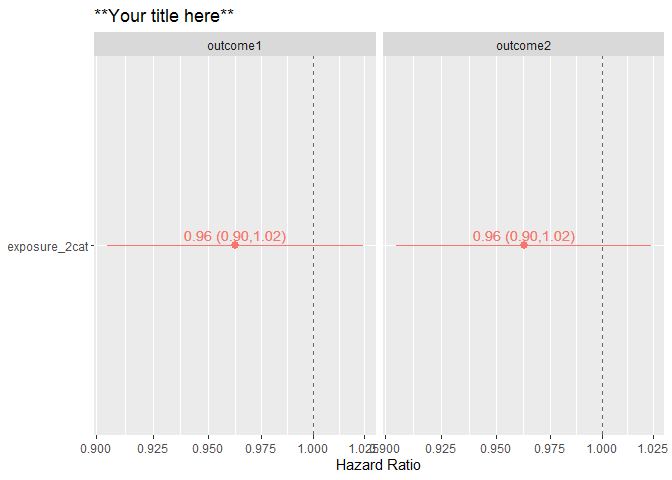
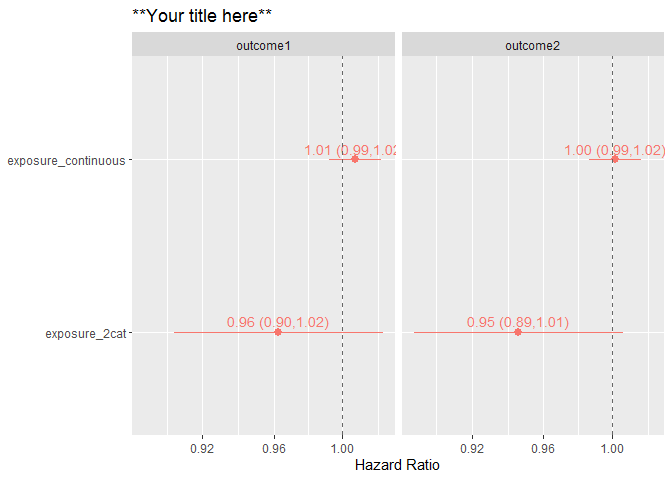
Fixed a bug in the specification of survtable model formula.

diff --git a/README.md b/README.md
@@ -23,25 +23,7 @@ You can install the development version of `survtabler` from
 
 ``` r
 # install.packages("devtools")
-devtools::install_github("jkoskenniemi/survtabler")
-#> Downloading GitHub repo jkoskenniemi/survtabler@HEAD
-#> stringi (1.8.1 -> 1.8.2) [CRAN]
-#> Installing 1 packages: stringi
-#> 
-#>   There is a binary version available but the source version is later:
-#>         binary source needs_compilation
-#> stringi  1.8.1  1.8.2              TRUE
-#> installing the source package 'stringi'
-#> Warning in i.p(...): installation of package 'stringi' had non-zero exit status
-#> -- R CMD build -----------------------------------------------------------------
-#>          checking for file 'C:\Users\jajoko\AppData\Local\Temp\Rtmp0Gta7F\remotes1d9026356404\jkoskenniemi-survtabler-f1665fe/DESCRIPTION' ...  v  checking for file 'C:\Users\jajoko\AppData\Local\Temp\Rtmp0Gta7F\remotes1d9026356404\jkoskenniemi-survtabler-f1665fe/DESCRIPTION' (461ms)
-#>       -  preparing 'survtabler':
-#>    checking DESCRIPTION meta-information ...     checking DESCRIPTION meta-information ...   v  checking DESCRIPTION meta-information
-#>       -  checking for LF line-endings in source and make files and shell scripts
-#>   -  checking for empty or unneeded directories
-#>       -  building 'survtabler_0.0.0.9001.tar.gz'
-#>      
-#> 
+# devtools::install_github("jkoskenniemi/survtabler")
 ```
 
 ## Example
@@ -95,14 +77,14 @@ models  %>%
   get_model_meta()
 #>      n n_event n_missing
 #> 1 8000    3996         0
-#> 2 8000    3996         0
+#> 2 8000    3990         0
 #> 3 8000    3996         0
-#> 4 8000    3996         0
-#>                                                                 formula
-#> 1 survival::Surv(cens_time, outcome1) ~ exposure_2cat + age + sex + hla
-#> 2 survival::Surv(cens_time, outcome1) ~ exposure_2cat + age + sex + hla
-#> 3 survival::Surv(cens_time, outcome1) ~ exposure_2cat + age + sex + hla
-#> 4 survival::Surv(cens_time, outcome1) ~ exposure_2cat + age + sex + hla
+#> 4 8000    3990         0
+#>                                                                       formula
+#> 1       survival::Surv(cens_time, outcome1) ~ exposure_2cat + age + sex + hla
+#> 2       survival::Surv(cens_time, outcome2) ~ exposure_2cat + age + sex + hla
+#> 3 survival::Surv(cens_time, outcome1) ~ exposure_continuous + age + sex + hla
+#> 4 survival::Surv(cens_time, outcome2) ~ exposure_continuous + age + sex + hla
 ```
 
 …, and finally analyze the models for departures of proportionality of
